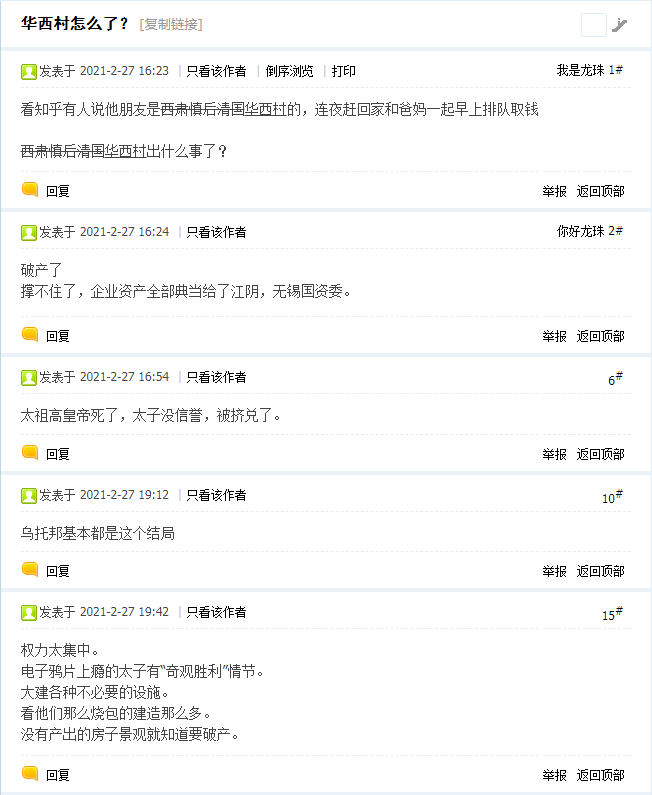
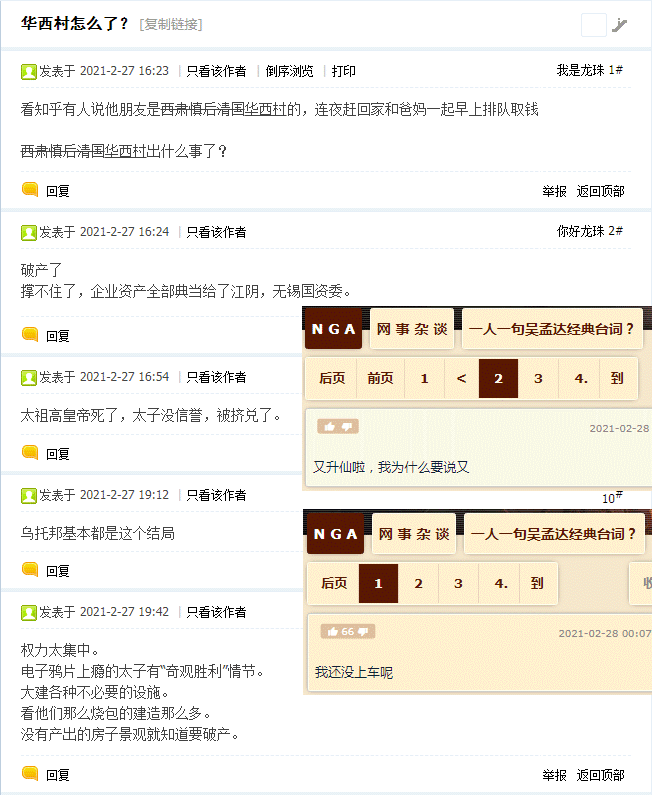
情报
Former-commit-id: 54660a9ebbbe28a531b1424d1e8213a8b01cc751

Changed region(s): [[0.4601, 0.3623, 1.0, 0.8755]]

diff --git a/at_douban/broadcast/20210228-002.html b/at_douban/broadcast/20210228-002.html
@@ -27,6 +27,9 @@
         <figure>
             <img src="image/20210228-002_001.png" />
         </figure>
+        <figure>
+            <img src="image/20210228-002_002.png" />
+        </figure>
     </main>
     <div class="signature">
         <p><span class="sign-time">2021-02-28 01:02:58</span></p>
